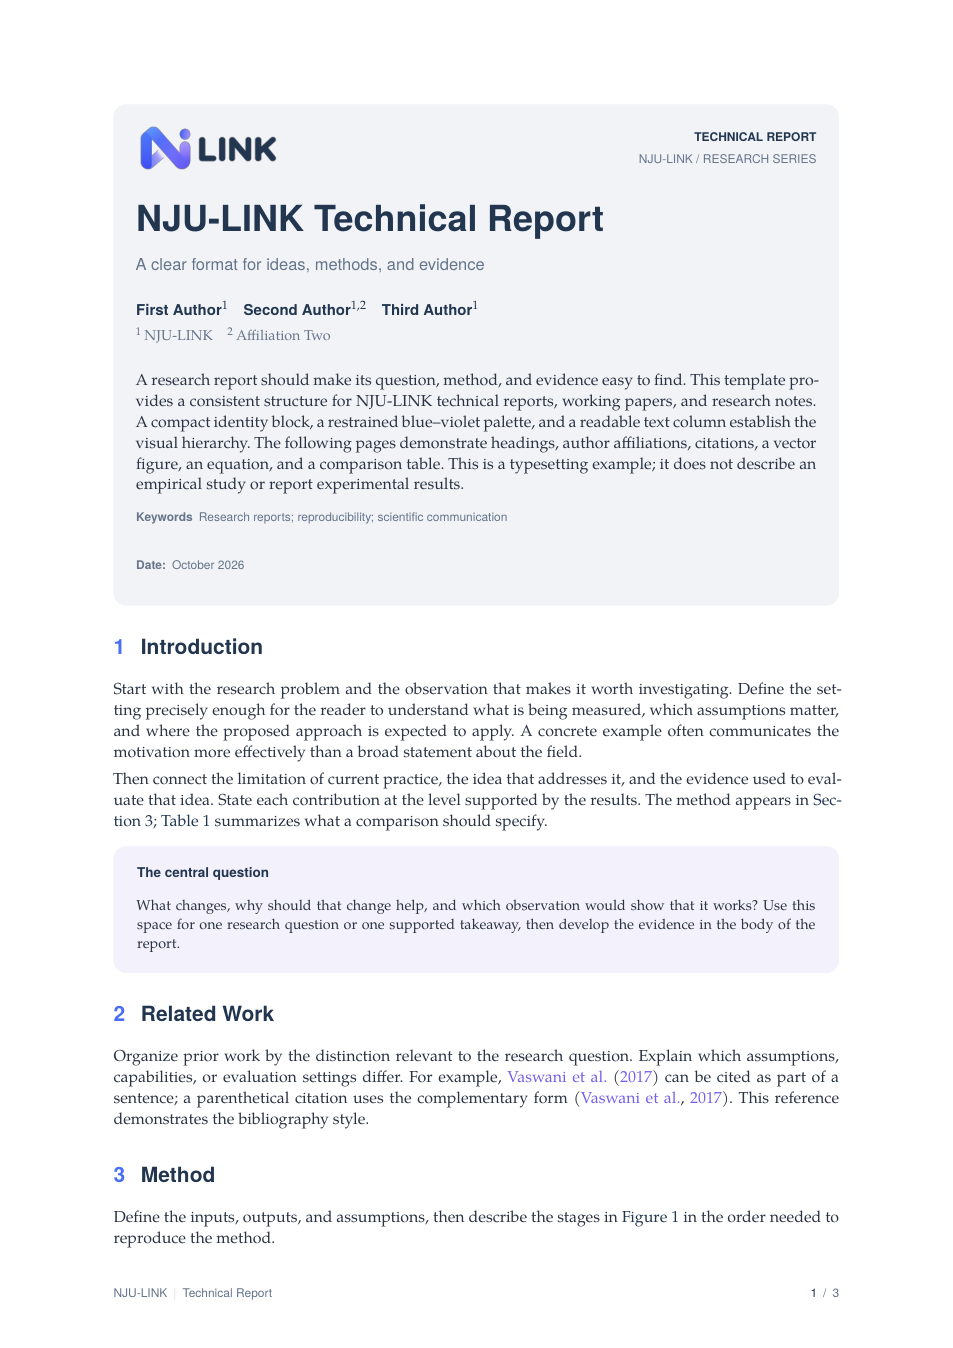
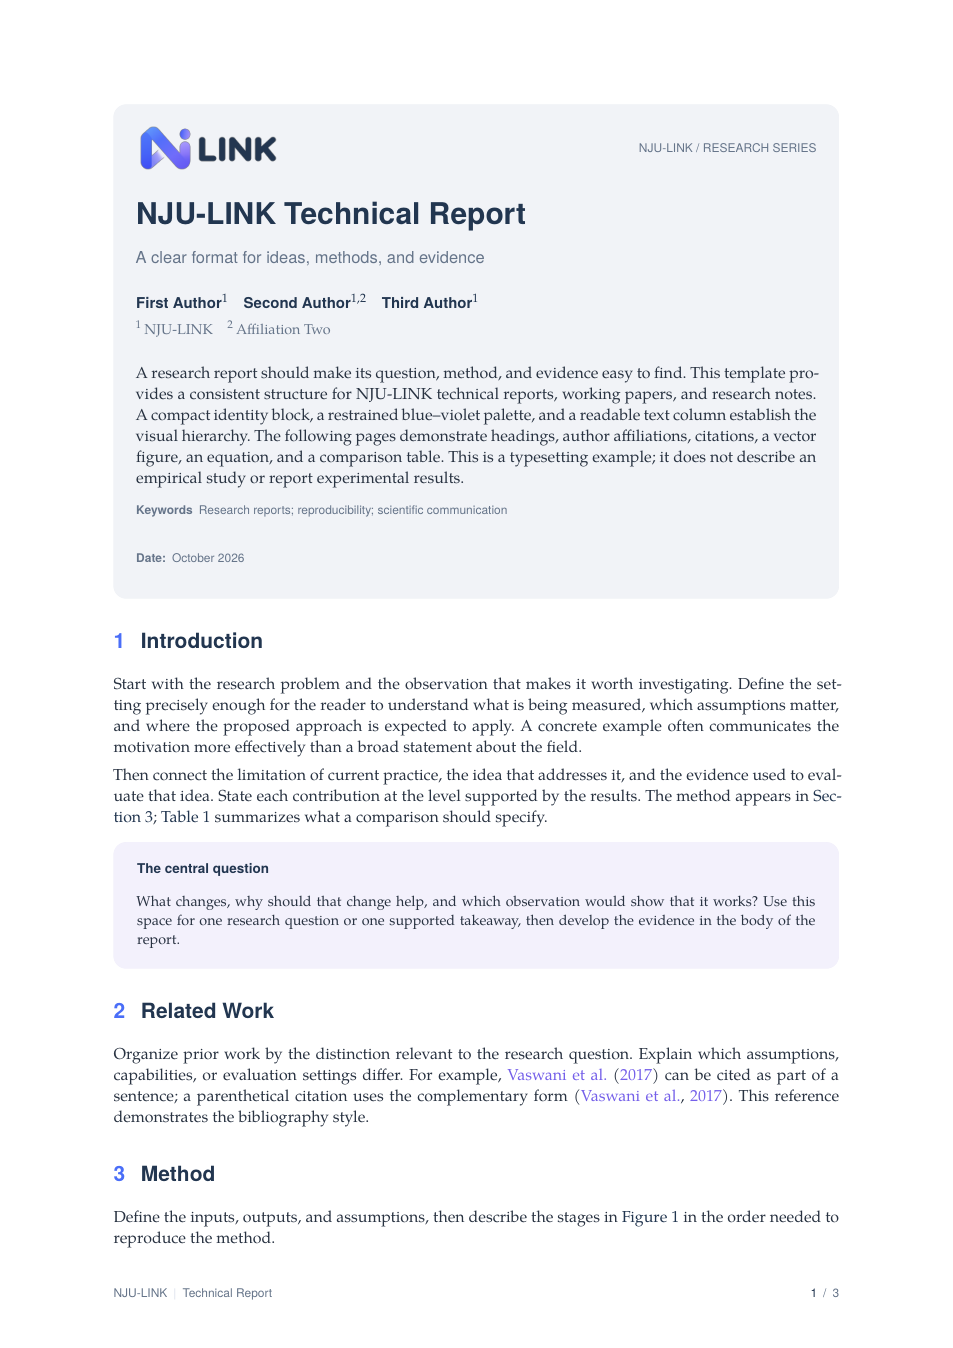
Reduce title size and remove masthead report label

diff --git a/README.md b/README.md
@@ -100,7 +100,8 @@
 }
 ```
 
-可选字段设为空值即可隐藏。长标题可用 `\\` 手动换行，页眉使用简短的
+`type` 用于页脚，首页 Logo 右侧仅显示 `id`。可选字段设为空值即可隐藏。
+长标题可用 `\\` 手动换行，页眉使用简短的
 `short-title`。推荐单栏报告；需要双栏时使用 `\documentclass[twocolumn]{njulink}`，
 首页信息仍横跨两栏，正文中的宽图表请改用 `figure*` / `table*`。
 
@@ -110,6 +111,7 @@
 ## 样式与组件
 
 - 正文：TeX Gyre Pagella；标题与作者：TeX Gyre Heros；中文：Fandol。
+- 首页主标题为 20 pt，行距为 25 pt。
 - 深蓝 `LinkNavy`：`#233650`，取自 Logo 文字；蓝色 `LinkBlue`：`#4B6FF9`；
   紫色 `LinkPurple`：`#7561EA`。统一修改 `njulink.cls` 的颜色区即可换色。
 - 首页使用参考稿的浅灰色 `LinkTitlePanel`（`#F1F4F7`）、8 pt 圆角与 5 mm 左右内边距。
